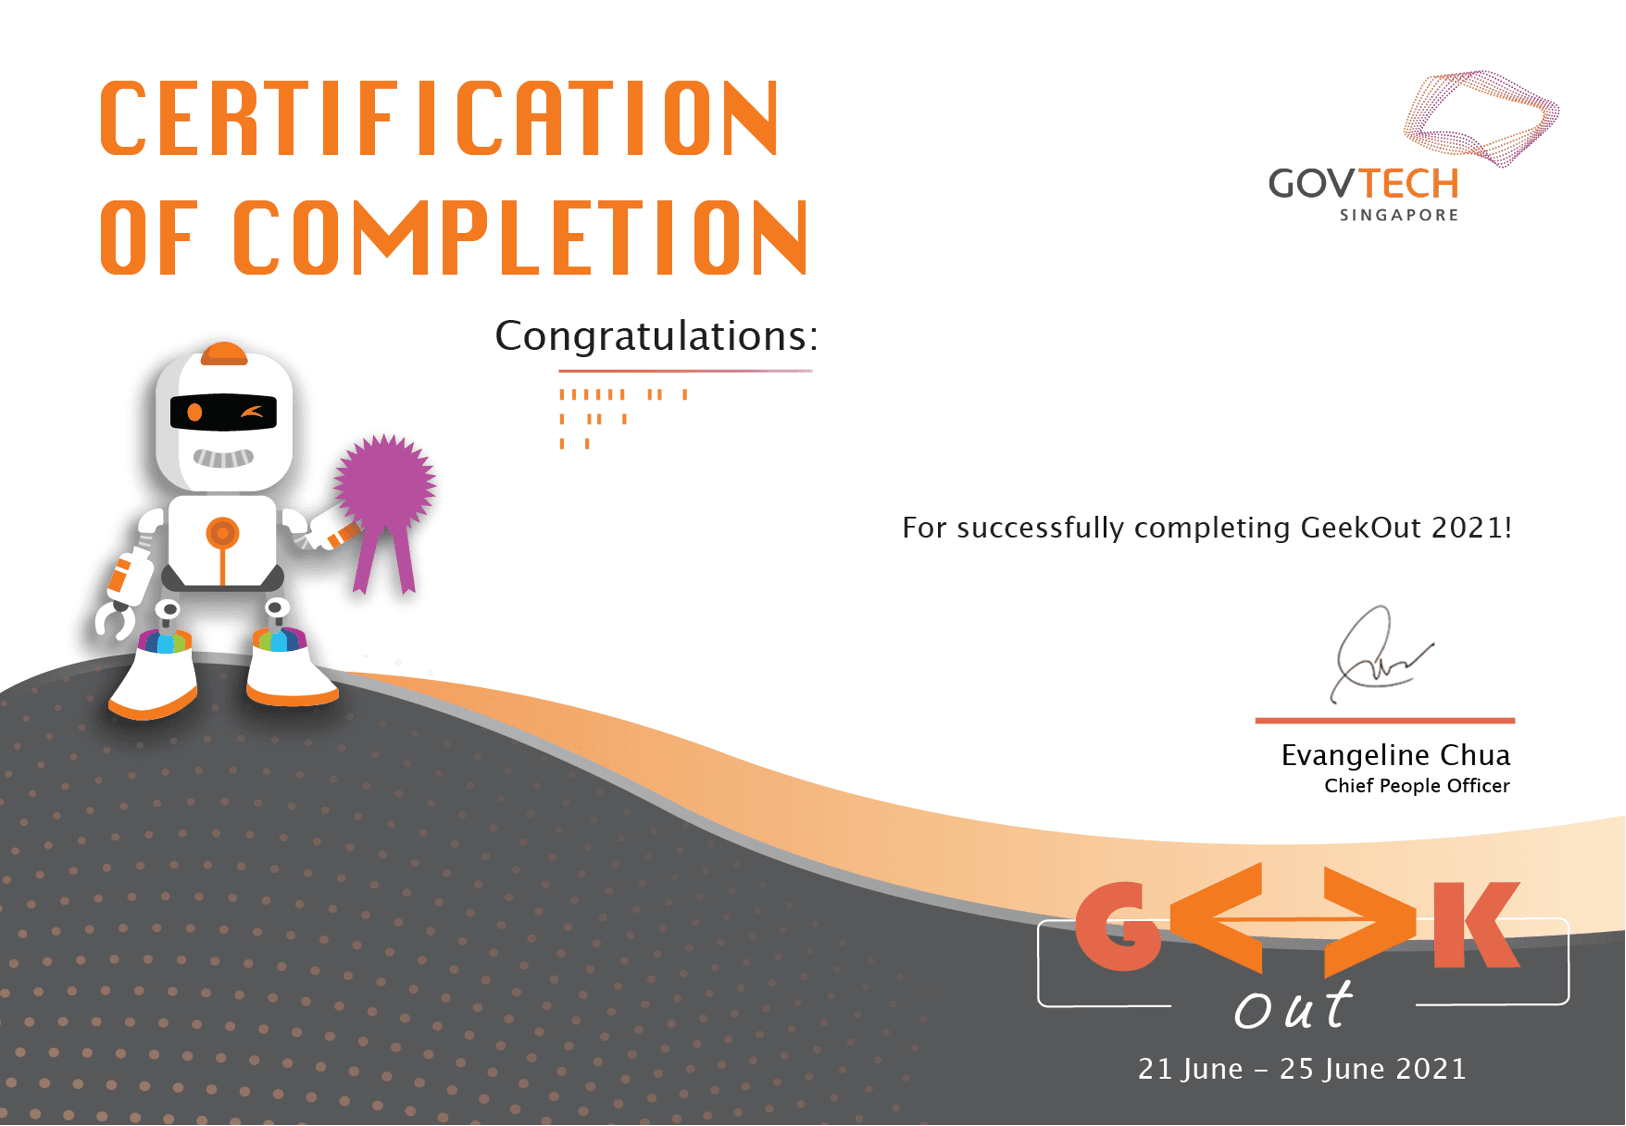
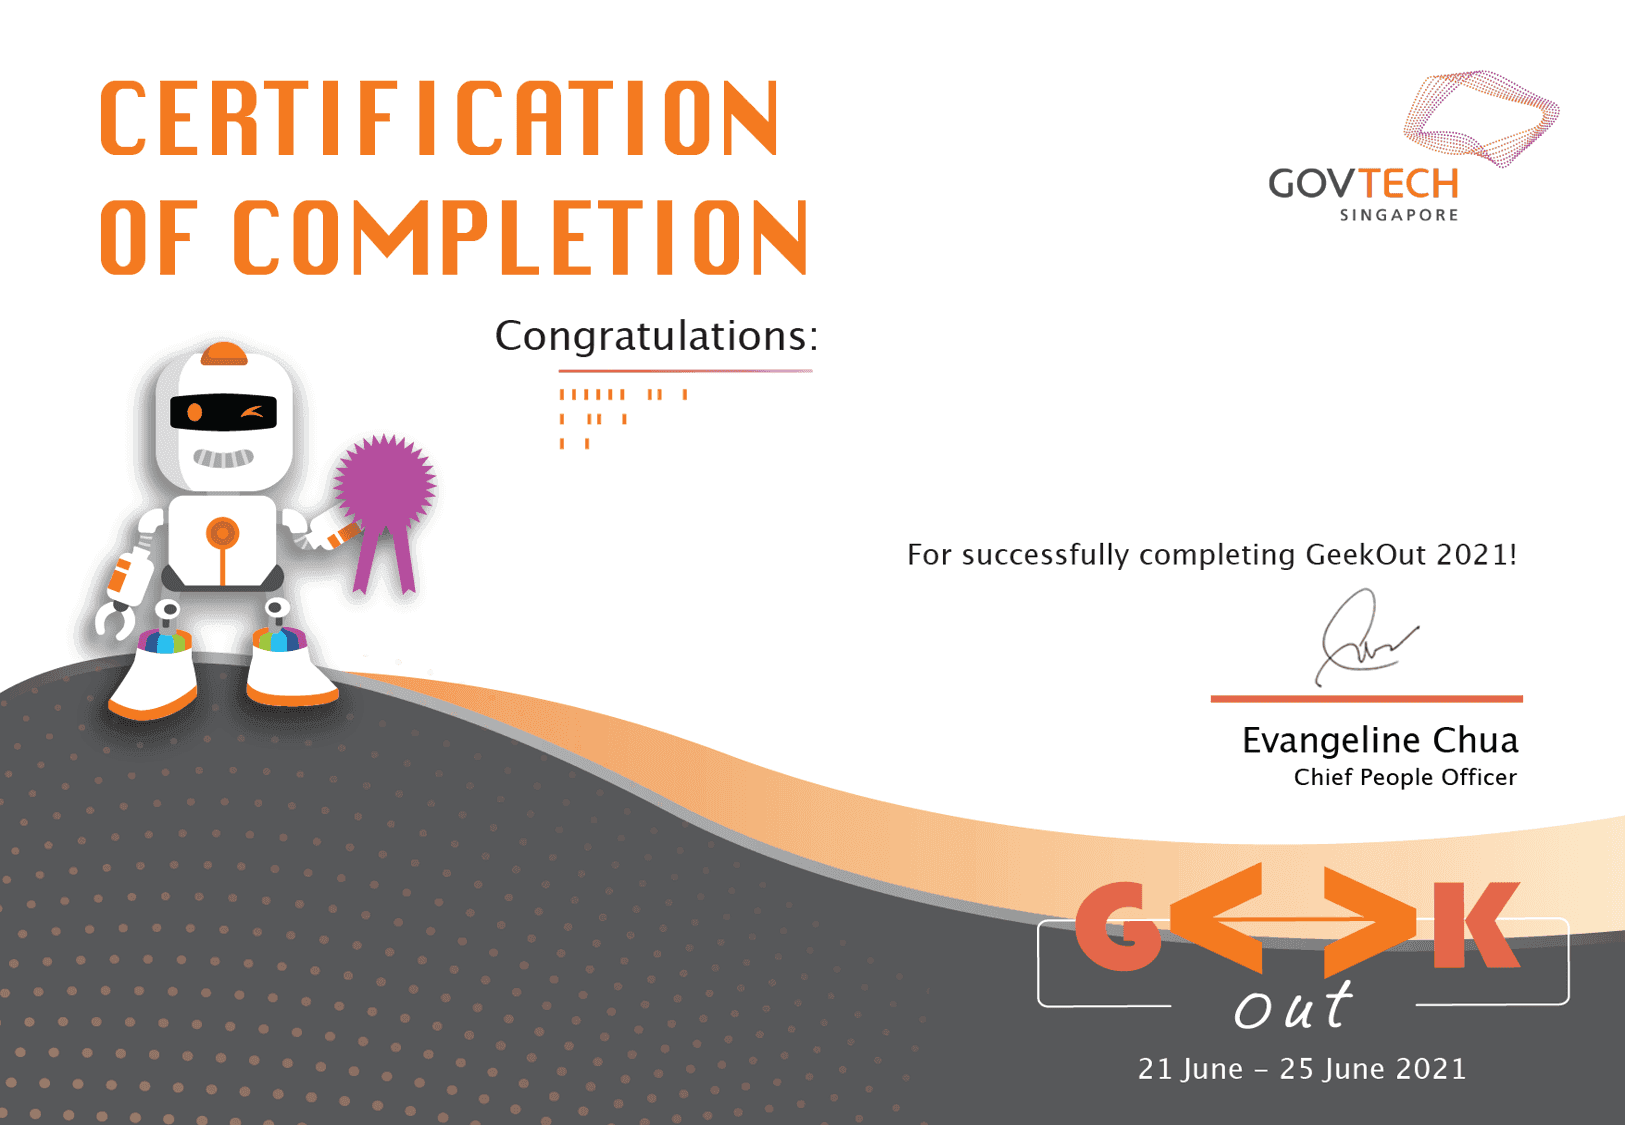
fix: update font size and signature

Changed region(s): [[0.738, 0.5284, 0.9533, 0.7149], [0.5535, 0.4663, 0.9225, 0.4973]]

diff --git a/src/templates/geekOut2021/geekOut2021.tsx b/src/templates/geekOut2021/geekOut2021.tsx
@@ -34,7 +34,7 @@ const Container = styled.div`
     width: 100%;
   }
 
-  #titled-recipient-detail {
+  #recipient-detail {
     position: absolute;
     z-index: 1;
     top: 217px;
@@ -49,28 +49,6 @@ const Container = styled.div`
       margin: 0px;
       text-align: right;
       font-size: 35pt;
-      font-family: "lucida-sans";
-      font-weight: 600;
-      font-style: italic;
-      color: #4b5054;
-    }
-  }
-
-  #completion-recipient-detail {
-    position: absolute;
-    z-index: 1;
-    top: 198px;
-    left: 555px;
-    width: 494px;
-    height: 160px;
-
-    p {
-      position: absolute;
-      width: 100%;
-      bottom: 0px;
-      margin: 0px;
-      text-align: right;
-      font-size: 31pt;
       font-family: "lucida-sans";
       font-weight: 600;
       font-style: italic;
@@ -104,15 +82,9 @@ export const GeekOut2021: FunctionComponent<TemplateProps<GeekOutCertificateInte
       />
       <Container id="geekout-cert">
         <div id="background-image" style={{ backgroundImage: `url(${backgroundImage})` }} />
-        {document.type == "champion" || document.type == "runner-up" ? (
-          <div id="titled-recipient-detail">
-            <p>{document.recipient.name}</p>
-          </div>
-        ) : (
-          <div id="completion-recipient-detail">
-            <p>{document.recipient.name}</p>
-          </div>
-        )}
+        <div id="recipient-detail">
+          <p>{document.recipient.name}</p>
+        </div>
       </Container>
     </>
   );
